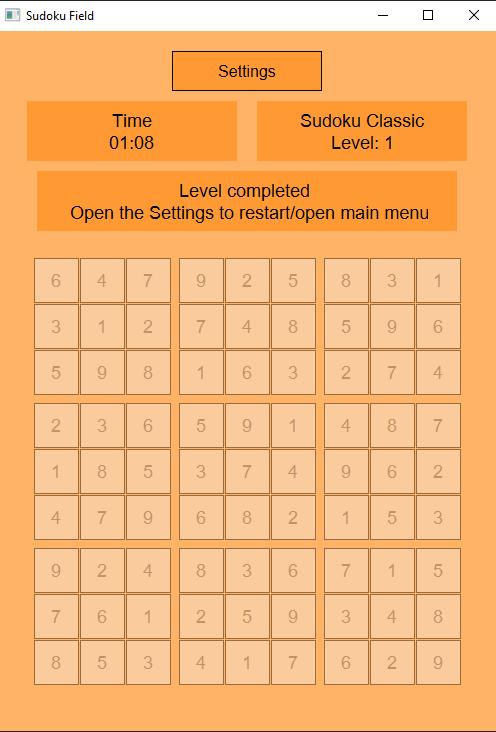
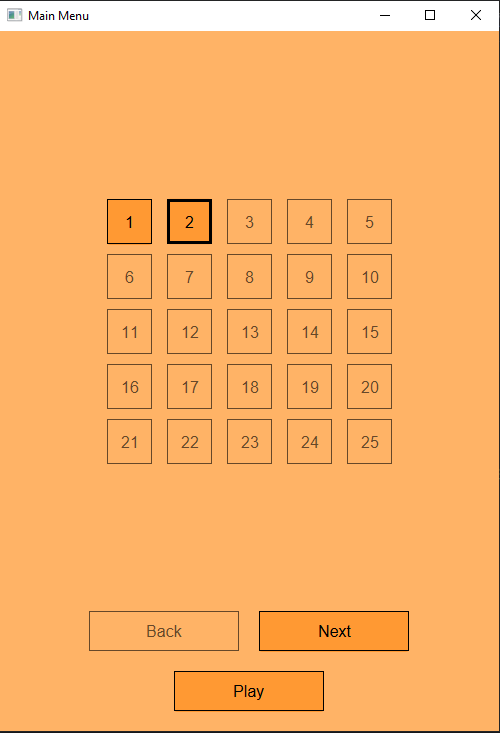
add

diff --git a/README.md b/README.md
@@ -217,23 +217,20 @@ The settings screen allows the player to:
 
 ![Settings / Pause Menu](docs/images/09.PNG)
 
-### Game Restart
-
-After selecting *Restart Level*, the game grid is reset to its original state
-and the timer is restarted.
-
-![Game Restart](docs/images/10.PNG)
-
-![Game Restart](docs/images/14.PNG)
 
 ### Game Continued
 
 After selecting *Back to Game* from the settings menu,
 the game continues with the current state preserved.
 
-![Game Continued](docs/images/11.PNG)
+![Game Continued](docs/images/10.PNG)
 
-![Game Continued](docs/images/15.PNG)
+### Game Restart
+
+After selecting *Restart Level*, the game grid is reset to its original state
+and the timer is restarted.
+
+![Game Restart](docs/images/11.PNG)
 
 ### Level Completion
 
@@ -241,5 +238,4 @@ After successfully filling the entire Sudoku grid correctly,
 the game displays a completion message.
 Further actions are available via the settings menu.
 
-![Level Completion](docs/images/15.PNG)
-![Level Completion](docs/images/13.PNG)
+![Level Completion](docs/images/12.PNG)
